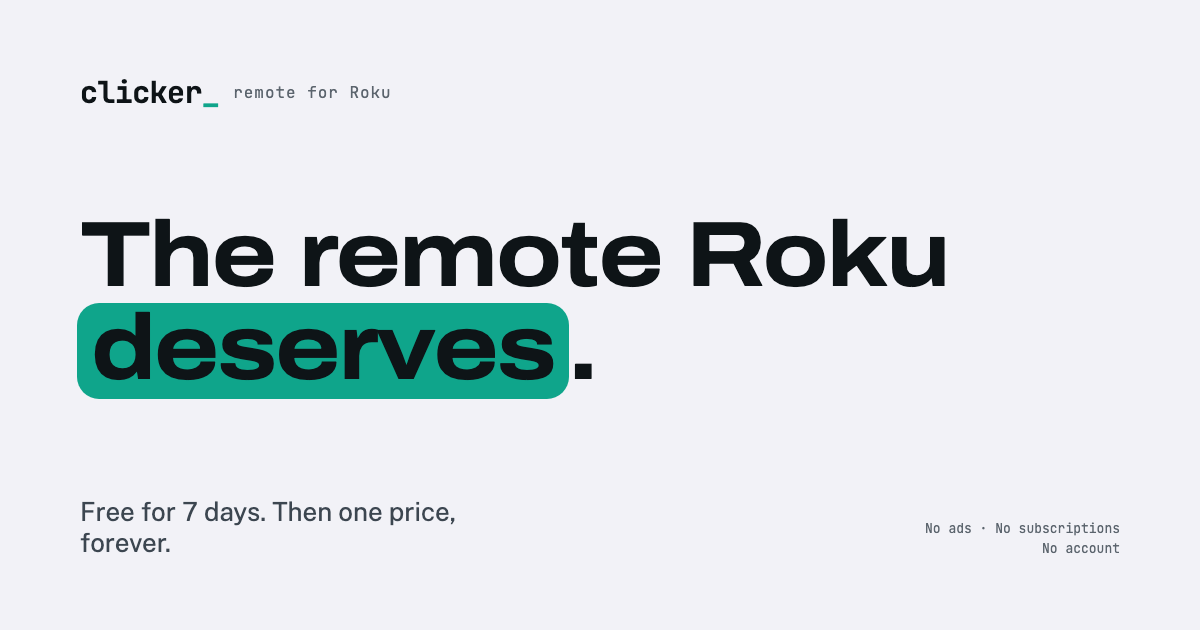
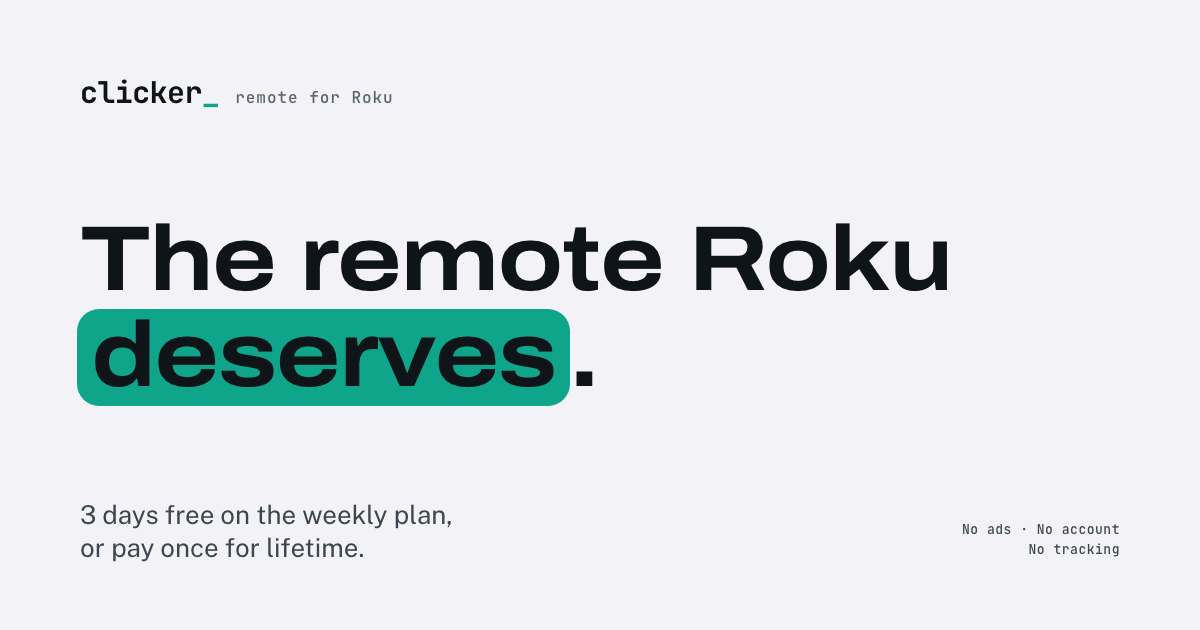
feat(web): describe weekly + lifetime pricing
The app now sells a weekly plan with a 3-day free trial and a one-time
lifetime unlock, so the site can no longer promise a 7-day trial and a
single price.

- Hero, meta description, and share card: "3 days free on the weekly
  plan, or pay once for lifetime."
- Value props: "Why pay for a remote?", first card explains both plans
- Comparison table: drop the price row
- FAQ: "How does paying work?" with the cancel path; the account answer
  notes that buying or restoring a plan needs the App Store
- Terms: new "Plans and payment" section (renewal, cancelling, what
  "lifetime" means, refunds through Apple)
- Privacy: new "Purchases" section
- WEBSITE.md: record the new business model and its copy rules

Still no dollar amount on the site.

diff --git a/WEBSITE.md b/WEBSITE.md
@@ -86,22 +86,35 @@ Everything else is static; hover/focus states only. All motion gated behind
    disabled button; a control must state what it does), phone mockup + swipe
    animation
 2. **Eyes-free** — the differentiator section, dark full-width band
-3. **Value props** — one price / instant connection / private by design
+3. **Value props** — two plain ways to pay / instant connection / private by
+   design
 4. **Comparison table** — vs "typical remote apps" (signal color for their
-   column). Under 560px it **re-flows into stacked blocks** so the signal-red
+   column). Three rows since 2026-11-14: ads, trackers, account. Under 560px it **re-flows into stacked blocks** so the signal-red
    column is never scrolled off-screen, with `data-who` labels naming each
    side so meaning never rests on colour alone
 5. **Beta** — single email field → Formspree
-6. **FAQ** — 5 items: all Rokus? / after the 7 days? / same Wi-Fi? /
+6. **FAQ** — 5 items: all Rokus? / how does paying work? / same Wi-Fi? /
    account or internet needed? / how does the beta work?
 7. **Footer** — Roku trademark disclaimer (required on every page)
 
-## Business model (authoritative, per user 2026-08-19)
+## Business model (authoritative, per user 2026-11-14)
 
-**Free download → 7-day free trial → $4.99 one-time IAP unlock.** The roadmap
-previously said paid-upfront; that was wrong and has been corrected. Site copy
-says "Free for 7 days. Then one price, forever." — **no dollar amount on the
-site** (user's explicit choice, Q19).
+**Free download → a short free preview → a choice of two plans: a weekly
+subscription with a 3-day free trial, or a one-time lifetime unlock.** This
+replaces the 2026-08-19 model (7-day trial, then a $4.99 one-time unlock).
+Site copy says "3 days free on the weekly plan, or pay once for lifetime." —
+still **no dollar amount on the site** (user's explicit choice, Q19, carried
+over). What the change means for copy:
+
+- Nothing on the site may say "no subscriptions" or "one price", or frame
+  weekly plans as the problem. "No ads, no account, no tracking" replaces the
+  old three-part line.
+- The comparison table has no price row.
+- The Terms page carries the plan terms the in-app paywall links to: renewal,
+  cancelling, what "lifetime" means, refunds through Apple. Keep it in step
+  with the paywall.
+- The share card (`public/og-image.png`) repeats the hero's pricing line, so
+  it must be re-rendered whenever that line changes.
 
 ## Beta email form
 
@@ -147,8 +160,10 @@ changes.
   OK dot on near-black), redrawn as SVG. One brand mark, everywhere.
 - **Wordmark split is deliberate**: `clicker_` (lowercase mono, teal cursor)
   is the logotype; "Clicker" (capitalized) is the name in all prose. Keep both.
-- **Values kicker**: "no server to rent, no data to sell" line ties all three
-  cards to the heading's question.
+- **Values kicker**: one line ties all three cards to the heading's question.
+  Since 2026-11-14 it reads "no ads and sells no data, so you are its only
+  customer"; the earlier "no server to rent" wording argued for a one-time
+  price and was dropped with it.
 - **404 page** exists (`404.astro`); **honeypot** (`_gotcha`) is in the beta
   form — bots get a fake success and nothing is sent.
 - **Hero recapture checklist** (after the Search-pill-wrap app fix lands):
@@ -168,7 +183,8 @@ Settled in a second grilling session after the first build:
 - Hard `<br>` removed from the headline; `text-wrap: balance` handles it (Q3)
 - **Nav carries "Get a beta invite"** so the form is reachable from anywhere (Q4)
 - Comparison table **restacks under 560px** (Q5)
-- "Three promises" → **"Why pay once for a remote?"** (Q6)
+- "Three promises" → **"Why pay once for a remote?"** (Q6); now **"Why pay
+  for a remote?"** after the 2026-11-14 pricing change
 - **Second swipe cut** from the hero loop (Q7)
 - Screenshots moved to `src/assets/` + Astro `<Image>` (Q8)
 - **Latin-only self-hosted fonts**, Fontsource dropped as a dependency (Q9)
@@ -181,8 +197,9 @@ Settled in a second grilling session after the first build:
 - [ ] Published contact email on privacy + terms
 - [ ] Live privacy-policy URL is an App Store submission blocker;
       `Theme.swift → AppInfo.privacyPolicyURL` still points at example.com
-- [ ] App must implement the trial: free download + $4.99 one-time IAP
-      (StoreKit work, not website scope)
+- [ ] App purchase flow (weekly plan + lifetime unlock) is built on the
+      `feat/trial-unlock` branch; it still needs the products created in App
+      Store Connect and a run against real StoreKit (not website scope)
 - [ ] At launch: swap the App Store status chip for Apple's official badge
       asset, wire the Formspree endpoint
 - [x] ~~`og:image`, `og:url`, canonical, `robots.txt`, sitemap~~ — done
